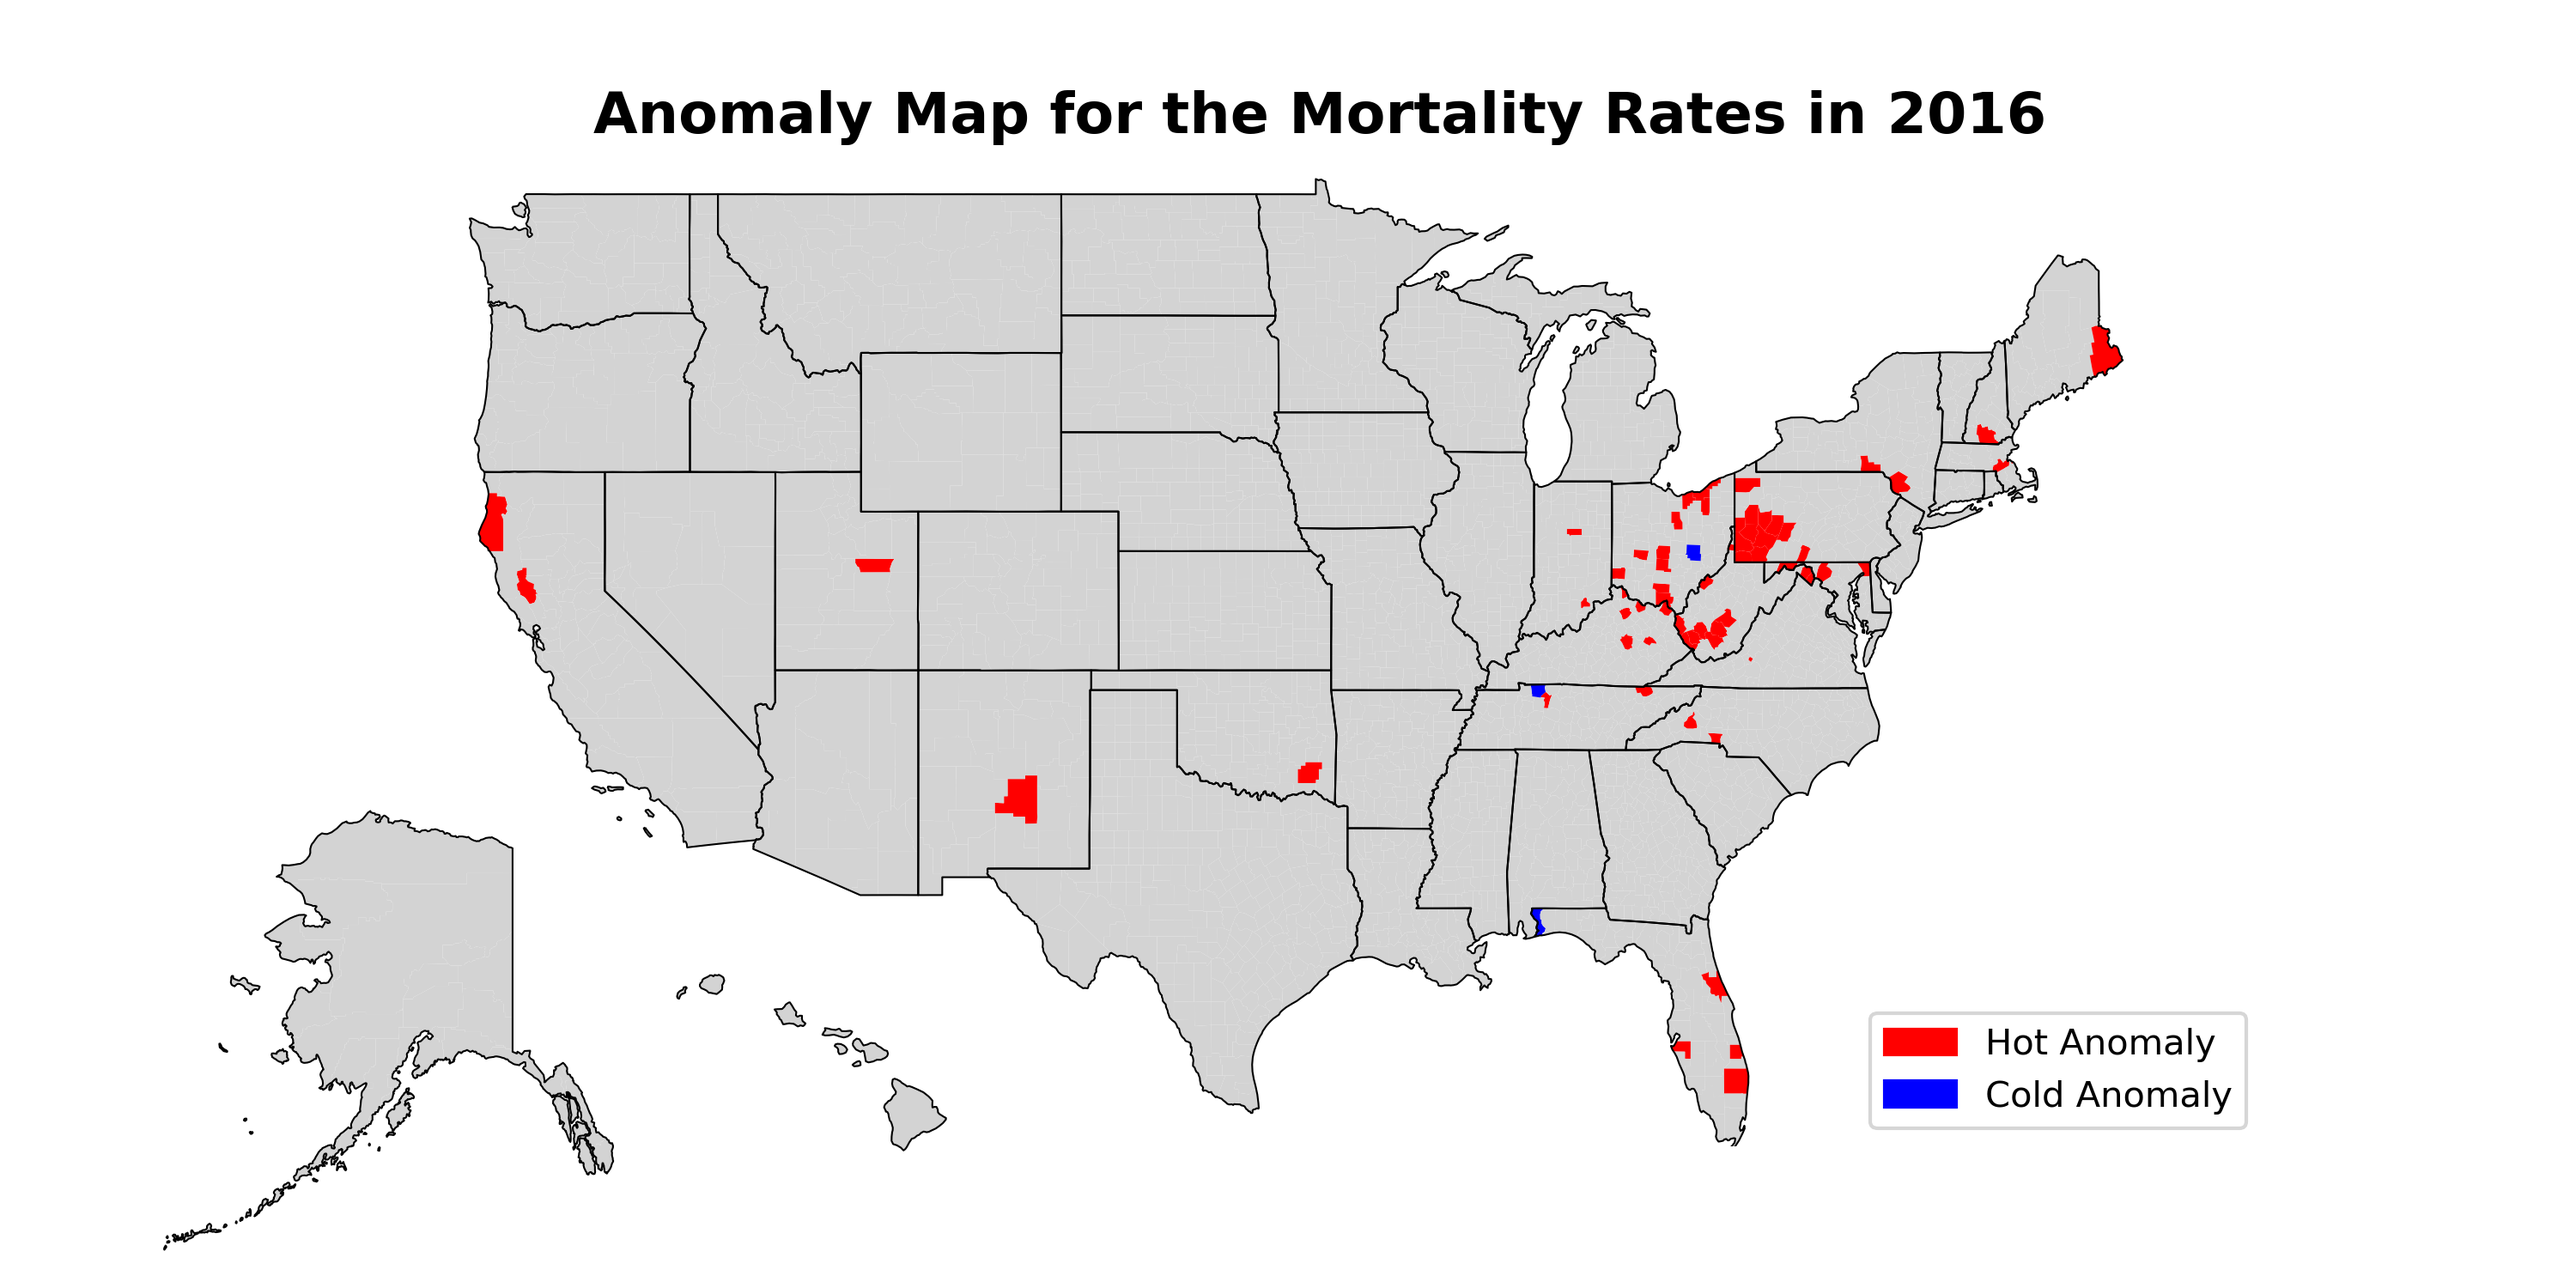
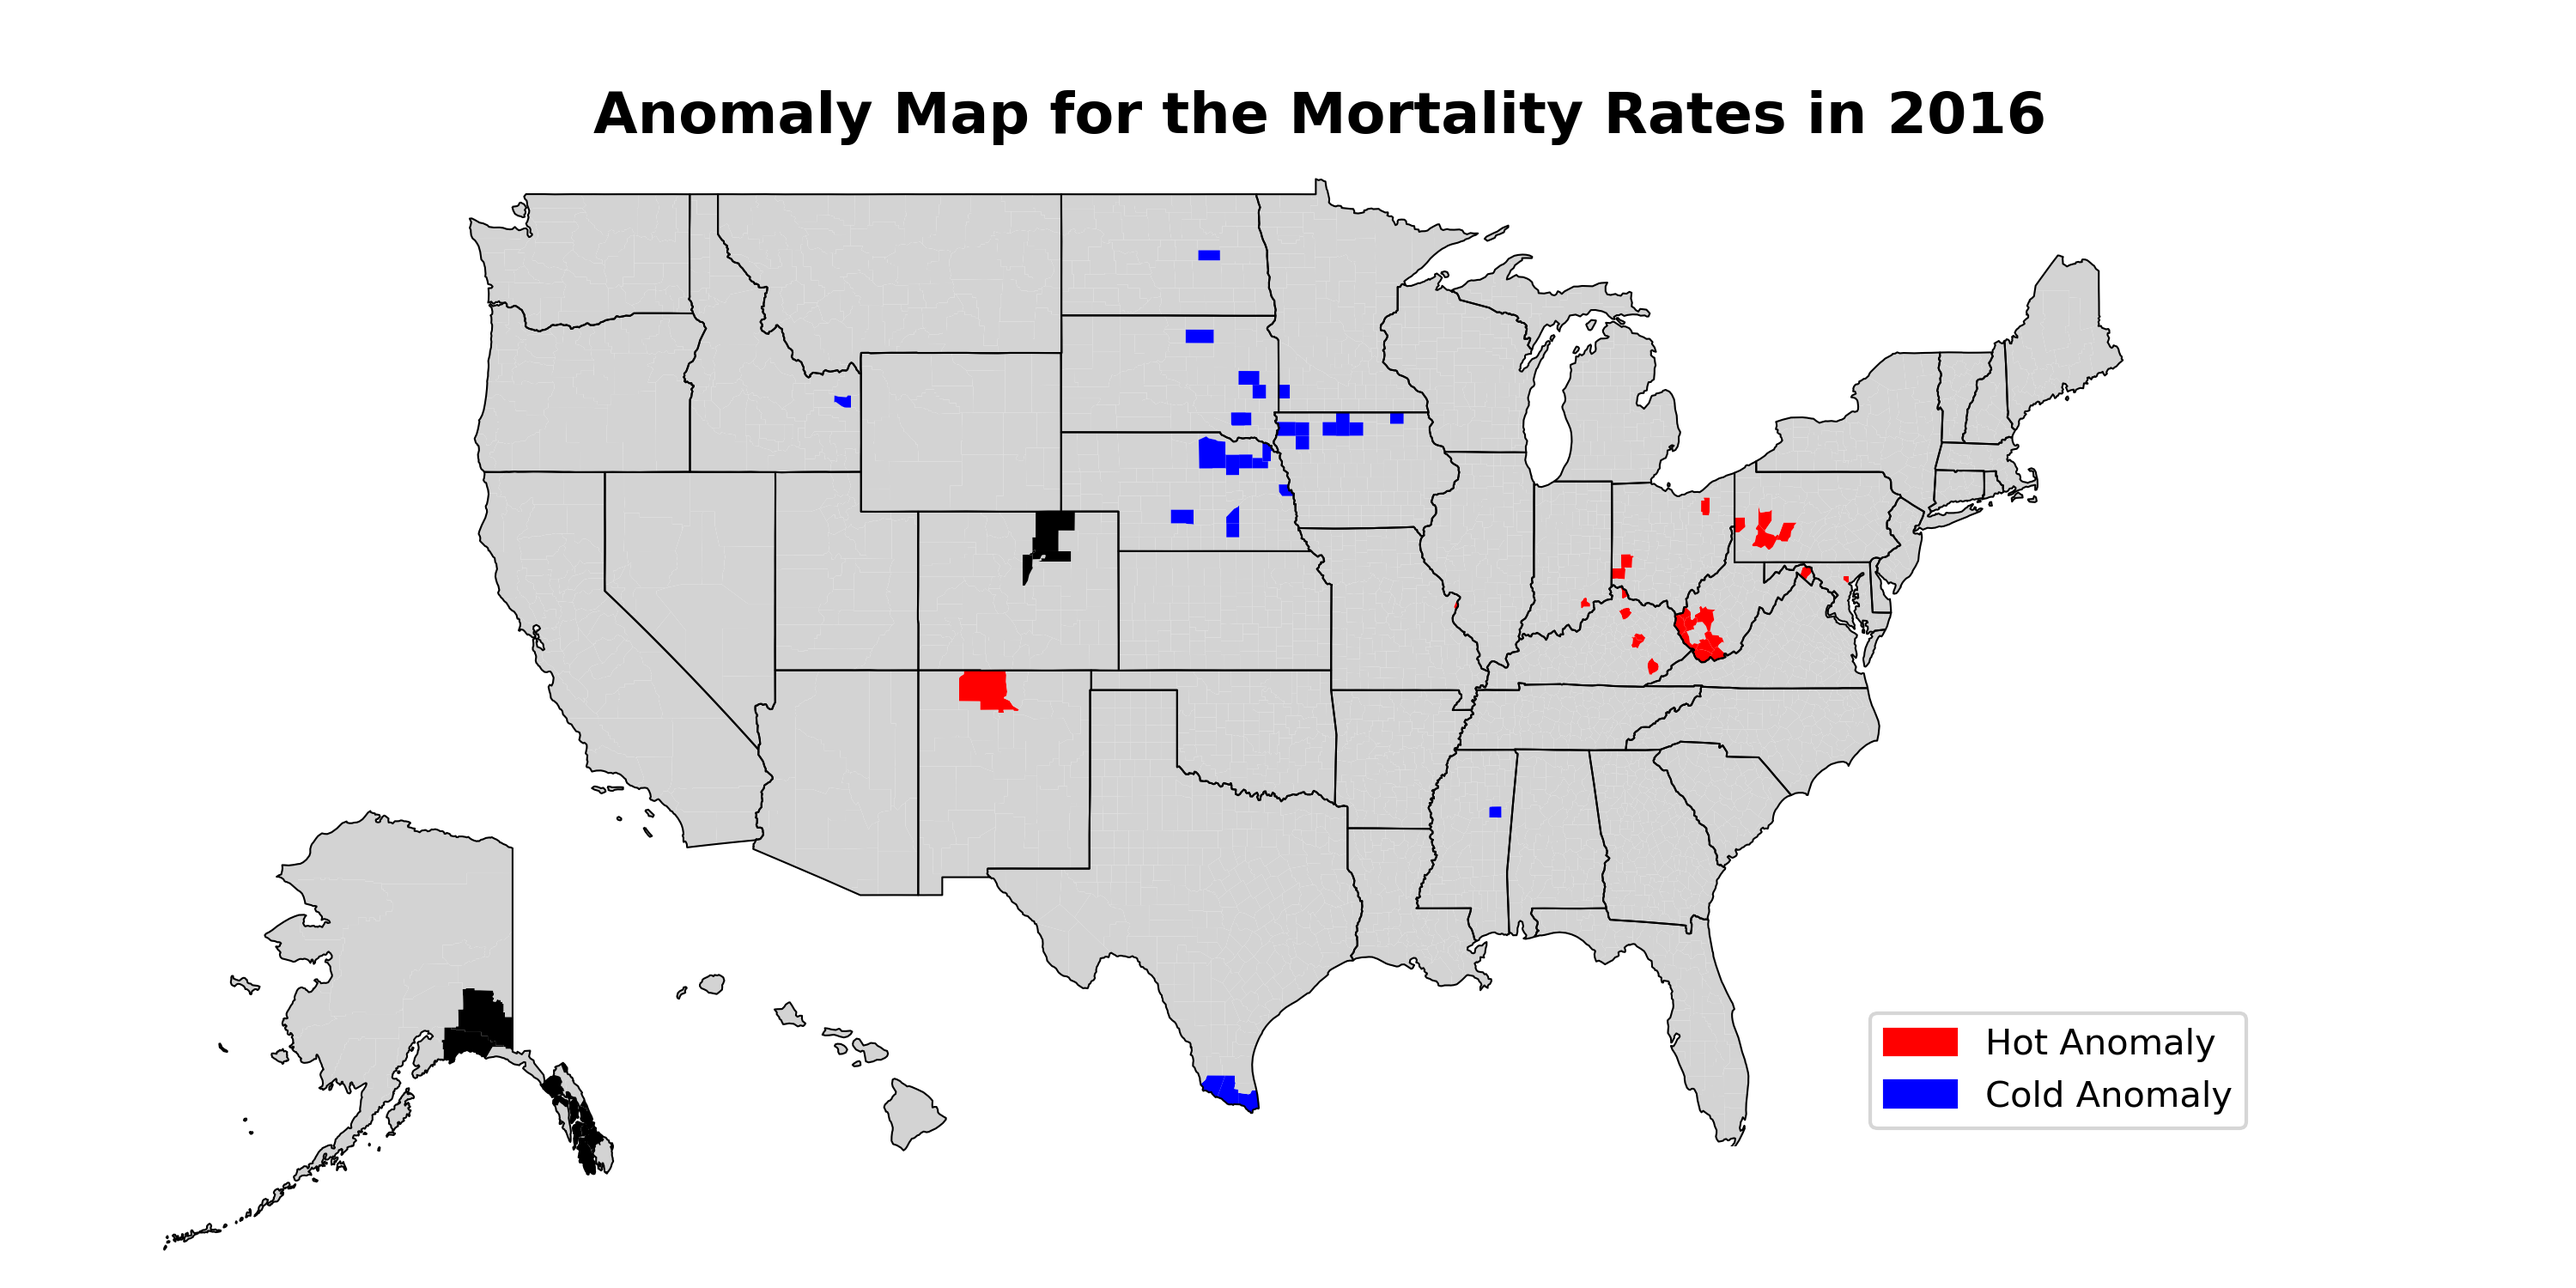
update

diff --git a/Anomalies/anomaly_maps.py b/Anomalies/anomaly_maps.py
@@ -1,0 +1,115 @@
+import geopandas as gpd
+import pandas as pd
+import matplotlib.pyplot as plt
+import matplotlib.patches as mpatches
+from scipy.stats import lognorm
+# import warnings
+# warnings.filterwarnings("ignore", category=UserWarning)
+
+# Constants
+SHAPE_PATH = '2020 USA County Shapefile/Filtered Files/2020_filtered_shapefile.shp'
+MORTALITY_PATH = 'Clean Data/mortality_rates.csv'
+MORTALITY_NAMES = ['FIPS'] + [f'{year} MR' for year in range(2014, 2021)]
+
+def load_shapefile(shapefile_path):
+    shape = gpd.read_file(shapefile_path)
+    return shape
+
+def load_mort_rates():
+    mort_df = pd.DataFrame()
+    mort_df = pd.read_csv(MORTALITY_PATH, header=0, names=MORTALITY_NAMES)
+    mort_df['FIPS'] = mort_df['FIPS'].astype(str).apply(lambda x: x.zfill(5) if len(x) < 5 else x)
+    mort_df[MORTALITY_NAMES[1:]] = mort_df[MORTALITY_NAMES[1:]].astype(float)
+    mort_df = mort_df.sort_values(by='FIPS').reset_index(drop=True)
+    return mort_df
+
+def merge_data_shape(shape, mort_df):
+    return shape.merge(mort_df, on='FIPS')
+
+def construct_anomaly_map(shape, year):
+    fig, main_ax = plt.subplots(figsize=(10, 5))
+    title = f'Anomaly Map for the Mortality Rates in {year}'
+    plt.title(title, size=16, weight='bold')
+
+        # Alaska and Hawaii insets
+    alaska_ax = fig.add_axes([0, -0.5, 1.4, 1.4]) 
+    hawaii_ax = fig.add_axes([0.24, 0.1, 0.15, 0.15])  
+    
+    # Plot state boundaries
+    state_boundaries = shape.dissolve(by='STATEFP', as_index=False)
+    state_boundaries.boundary.plot(ax=main_ax, edgecolor='black', linewidth=.5)
+
+    alaska_state = state_boundaries[state_boundaries['STATEFP'] == '02']
+    alaska_state.boundary.plot(ax=alaska_ax, edgecolor='black', linewidth=.5)
+
+    hawaii_state = state_boundaries[state_boundaries['STATEFP'] == '15']
+    hawaii_state.boundary.plot(ax=hawaii_ax, edgecolor='black', linewidth=.5)
+
+    # Define the insets for coloring
+    shapes = [
+        (shape[(shape['STATEFP'] != '02') & (shape['STATEFP'] != '15')], main_ax, 'continental'),
+        (shape[shape['STATEFP'] == '02'], alaska_ax, 'alaska'),
+        (shape[shape['STATEFP'] == '15'], hawaii_ax, 'hawaii') ]
+
+    # Color the maps
+    mort_rates = shape[f'{year} MR'].values
+    non_zero_mort_rates = mort_rates[mort_rates > 0]
+    params_lognorm = lognorm.fit(non_zero_mort_rates)
+    shape, loc, scale = params_lognorm
+
+    upper_threshold = lognorm.ppf(.99, shape, loc, scale)
+    lower_threshold = lognorm.ppf(.01, shape, loc, scale)
+
+    for inset, ax, _ in shapes:
+        for _, row in inset.iterrows():
+            county = row['FIPS']
+            rate = row[f'{year} MR']
+            
+            if rate < 0: # missing data
+                color = 'black'
+            elif rate > upper_threshold:
+                color = 'red'
+            elif 0 <= rate < lower_threshold:
+                color = 'blue'
+            elif lower_threshold <= rate <= upper_threshold:
+                color = 'lightgrey'
+
+            inset[inset['FIPS'] == county].plot(ax=ax, color=color)
+
+    # Adjust the viewing
+    set_view_window(main_ax,alaska_ax,hawaii_ax)
+
+    # Add the colorbar
+    add_legend(main_ax)
+
+    plt.savefig(f'Anomalies/Anomaly Maps/{year}_anomaly_map', 
+                bbox_inches=None, pad_inches=0, dpi=300)
+    # plt.show()
+    plt.close(fig)
+
+def set_view_window(main_ax,alaska_ax,hawaii_ax):
+    main_ax.get_xaxis().set_visible(False)
+    main_ax.get_yaxis().set_visible(False)
+    alaska_ax.set_axis_off()
+    hawaii_ax.set_axis_off()
+    main_ax.axis('off')
+
+    # Fix window
+    main_ax.set_xlim([-125, -65])
+    main_ax.set_ylim([25, 50])
+
+def add_legend(main_ax):
+    red_patch = mpatches.Patch(color='red', label='Hot Anomaly')
+    blue_patch = mpatches.Patch(color='blue', label='Cold Anomaly')
+    main_ax.legend(handles=[red_patch, blue_patch], loc='lower right', bbox_to_anchor=(1.05, 0))
+
+def main():
+    for year in range(2014, 2021):
+        shape = load_shapefile(SHAPE_PATH)
+        mort_df = load_mort_rates()
+        shape = merge_data_shape(shape, mort_df)
+        construct_anomaly_map(shape, year)
+        print(f'Plot printed for {year}.')
+
+if __name__ == "__main__":
+    main()
